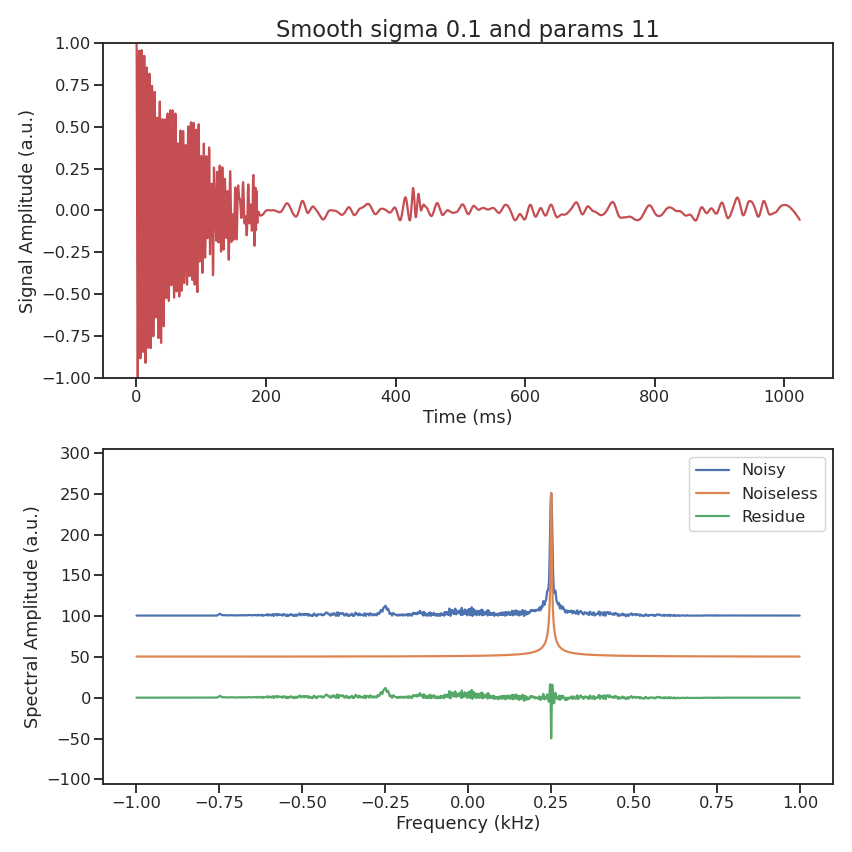
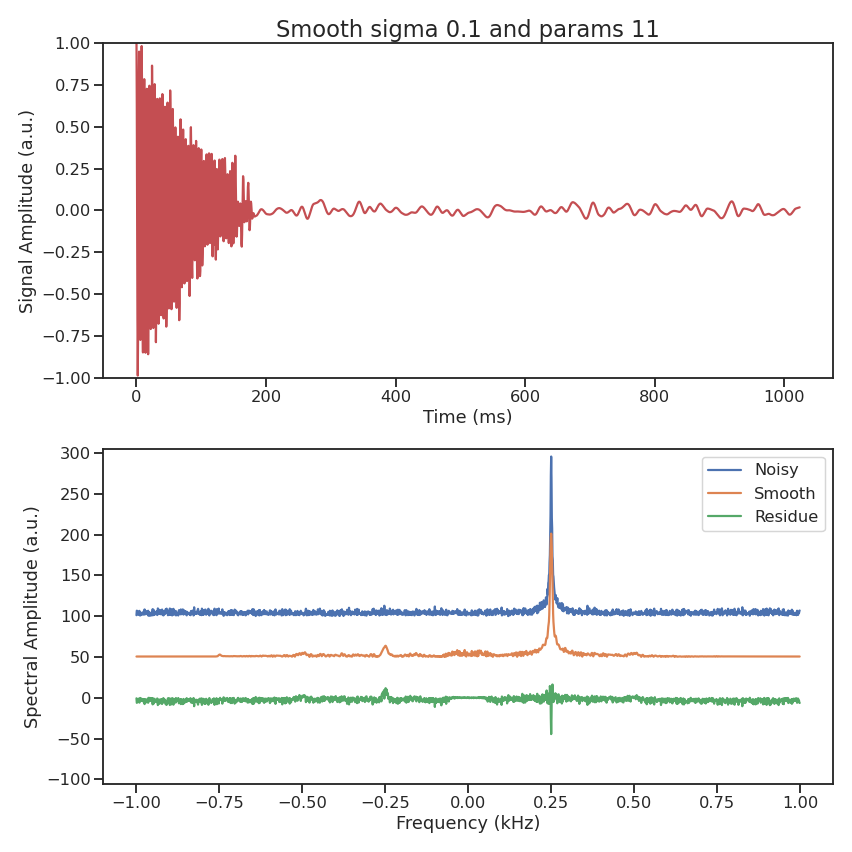
corrected the labels on the FFT stackplot in 1D filtering

diff --git a/1D/fid fft figure.py b/1D/fid fft figure.py
@@ -19,7 +19,7 @@ import seaborn as sns
 from scipy import fft
 
 
-def plot(signal, signal_pure,time,delta_time,title,freq):
+def plot(signal1,label1,signal2,label2,time,delta_time,title,freq):
     size_y,size_x=1,2
     figure = plt.figure(figsize=(12*size_y,6*size_x))
     sns.set()
@@ -28,20 +28,20 @@ def plot(signal, signal_pure,time,delta_time,title,freq):
 
 
     ax1 = figure.add_subplot(2,1,1)
-    ax1.plot(time,np.real(signal),'r-')
+    ax1.plot(time,np.real(signal1),'r-')
     ax1.set_ylim(-1,1)
     ax1.set_ylabel('Signal Amplitude (a.u.)')
     ax1.set_xlabel('Time (ms)')
     ax1.set_title(title,fontsize=23)
 
-    size_array = len(signal)
-    yf=fft.fft(signal)
+    size_array = len(signal1)
+    yf=fft.fft(signal1)
     xf=fft.fftfreq(size_array,delta_time)
     xf=fft.fftshift(xf)
     yplot=np.abs((fft.fftshift(yf)))
 
-    size_array = len(signal_pure)
-    yf0=fft.fft(signal_pure)
+    size_array = len(signal2)
+    yf0=fft.fft(signal2)
     xf0=fft.fftfreq(size_array,delta_time)
     xf0=fft.fftshift(xf0)
     yplot0=np.abs((fft.fftshift(yf0)))
@@ -49,14 +49,14 @@ def plot(signal, signal_pure,time,delta_time,title,freq):
     ax2 = figure.add_subplot(2,1,2)
     offset = 50
 
-    ax2.plot(xf,yplot+2*offset,label = 'Noisy')
-    ax2.plot(xf,yplot0+offset,label = 'Noiseless')
+    ax2.plot(xf,yplot0+2*offset,label = label2)
+    ax2.plot(xf,yplot+offset,label = label1)
     ax2.plot(xf,yplot-yplot0,label = 'Residue')
 
     ax2.set_ylabel('Spectral Amplitude (a.u.)')
     ax2.set_xlabel('Frequency (kHz)')
     
-    plt.legend(loc=1)
+    plt.legend(loc='best')
     ax2.set_ylim(-105,305)
     
 
@@ -77,6 +77,7 @@ if __name__ == '__main__':
     delta_time=0.5
     T2=100
     freq=0.25
+    # freq_title = '025'
     size_array=2048
     mean=0
     std_dev=0.1
@@ -85,13 +86,22 @@ if __name__ == '__main__':
 
     signal_noise = signal_1D.Add_Noise1D(signal_pure,mean,std_dev)
     
+    # os.chdir('Figures/FID_FFT/Paiva/freq '+freq_title)
     os.chdir('Figures/FID_FFT')
     title='Noisy signal'
-    plot(signal_noise,signal_pure,time,delta_time,title,freq)
+    plot(signal_noise,'Noisy',signal_pure,'Noiseless',time,delta_time,title,freq)
 
     plt.clf()
     os.chdir('..')
     os.chdir('..')
+    # os.chdir('..')
+    # os.chdir('..')
+
+    # signal_pure_real,time = signal_1D.Simulate_Signal1D(size_array,delta_time,T2,freq,real=True)
+
+    # signal_noise_real = signal_1D.Add_Noise1D(signal_pure_real,mean,std_dev)
+
+
 
     for num_params in range(1,25):
 
@@ -103,26 +113,24 @@ if __name__ == '__main__':
         noise_estimator, mode, wavelet, levels_dwt = params[1:]
         noise_estimator,levels_dwt = int(noise_estimator),int(levels_dwt)
 
-    #Simulation input
-        delta_time=0.5
-        T2=100
-        freq=0.25
-        size_array=2048
-        mean=0
-        std_dev=0.1
-    
 
+  
     
     
-    
+        # os.chdir('Figures/FID_FFT/Paiva/freq '+freq_title)
         os.chdir('Figures/FID_FFT')
         
         alg = 'SURE'
-        signal_smooth = filter_1D.Wavelet_filter(signal_noise,wavelet,levels_dwt,mode,alg)
+        signal_smooth = filter_1D.Wavelet_filter(signal_noise,wavelet,levels_dwt,mode,'SURE',std_dev)
         
         
         title='Smooth sigma {} and params {}'.format(std_dev,num_params)
-        plot(signal_smooth, signal_pure,time,delta_time,title,freq)
+        plot(signal_smooth,'Smooth',signal_noise,'Noisy',time,delta_time,title,freq)
+        
+        # signal_smooth_real = filter_1D.Wavelet_filter(signal_noise_real,wavelet,levels_dwt,mode,alg)
+        # plot(signal_noise_real,'Noisy',signal_smooth_real,'Smooth',time,delta_time,title+' real',freq)
     
         os.chdir('..')
         os.chdir('..')
+        # os.chdir('..')
+        # os.chdir('..')

diff --git a/1D/filter_1D.py b/1D/filter_1D.py
@@ -33,15 +33,16 @@ def Std_dev_estimator(signal_noise,detail_coef_list,num=5):
 
     elif num==5:
         sigma = sigmas.Sigma5(detail_coef_list)
-
+    
+    # print('sigma',sigma)
     return sigma
 
 
-def Wavelet_filter(signal_noise,wavelet,levels_dwt,mode,alg):
+def Wavelet_filter(signal_noise,wavelet,levels_dwt,mode,alg,sigma):
 
     coefficients = pywt.wavedec(signal_noise, wavelet, level=levels_dwt)
     ca = coefficients[0]
-    cd = coefficients[1:] 
+    cd = coefficients[1:]
 
     cd_smooth = Adaptive_smoothing(signal_noise,cd,mode,alg=alg)
     
@@ -96,11 +97,20 @@ def Adaptive_smoothing(signal,detail_coef_list,mode,num=5,alg='SURE'):
     smooth_detail_coef_list = len(detail_coef_list)*[None]
     for i in range(len(detail_coef_list)):
         size_coef = len(detail_coef_list[i])
-        
+
+
         if alg == 'SURE':
             T=sigma*np.sqrt(2*np.log(size_coef))
+            # T=sigma*np.sqrt(2*np.log(2048))
+            
+            # print('\tsigma',sigma)
+            # print(T,detail_coef_list[i].min(),detail_coef_list[i].max(),size_coef)
+
+
         elif alg == 'Bayes':
             T = sigma**2 / np.std(signal)
+            # print(T,detail_coef_list[i].min(),detail_coef_list[i].max())
+
 
         smooth_detail_coef= Thresholding(detail_coef_list[i],T,mode)
         smooth_detail_coef_list[i] = smooth_detail_coef
@@ -131,6 +141,7 @@ if __name__ == "__main__":
     
 
     signal_pure,time = signal_1D.Simulate_Signal1D(size_array,delta_time,T2,freq)
+    # signal_pure*=100
     signal_noise = signal_1D.Add_Noise1D(signal_pure,mean,std_dev)
 
     SNR0=metrics_1D.SNR_Measure1D(signal_pure,signal_noise)
